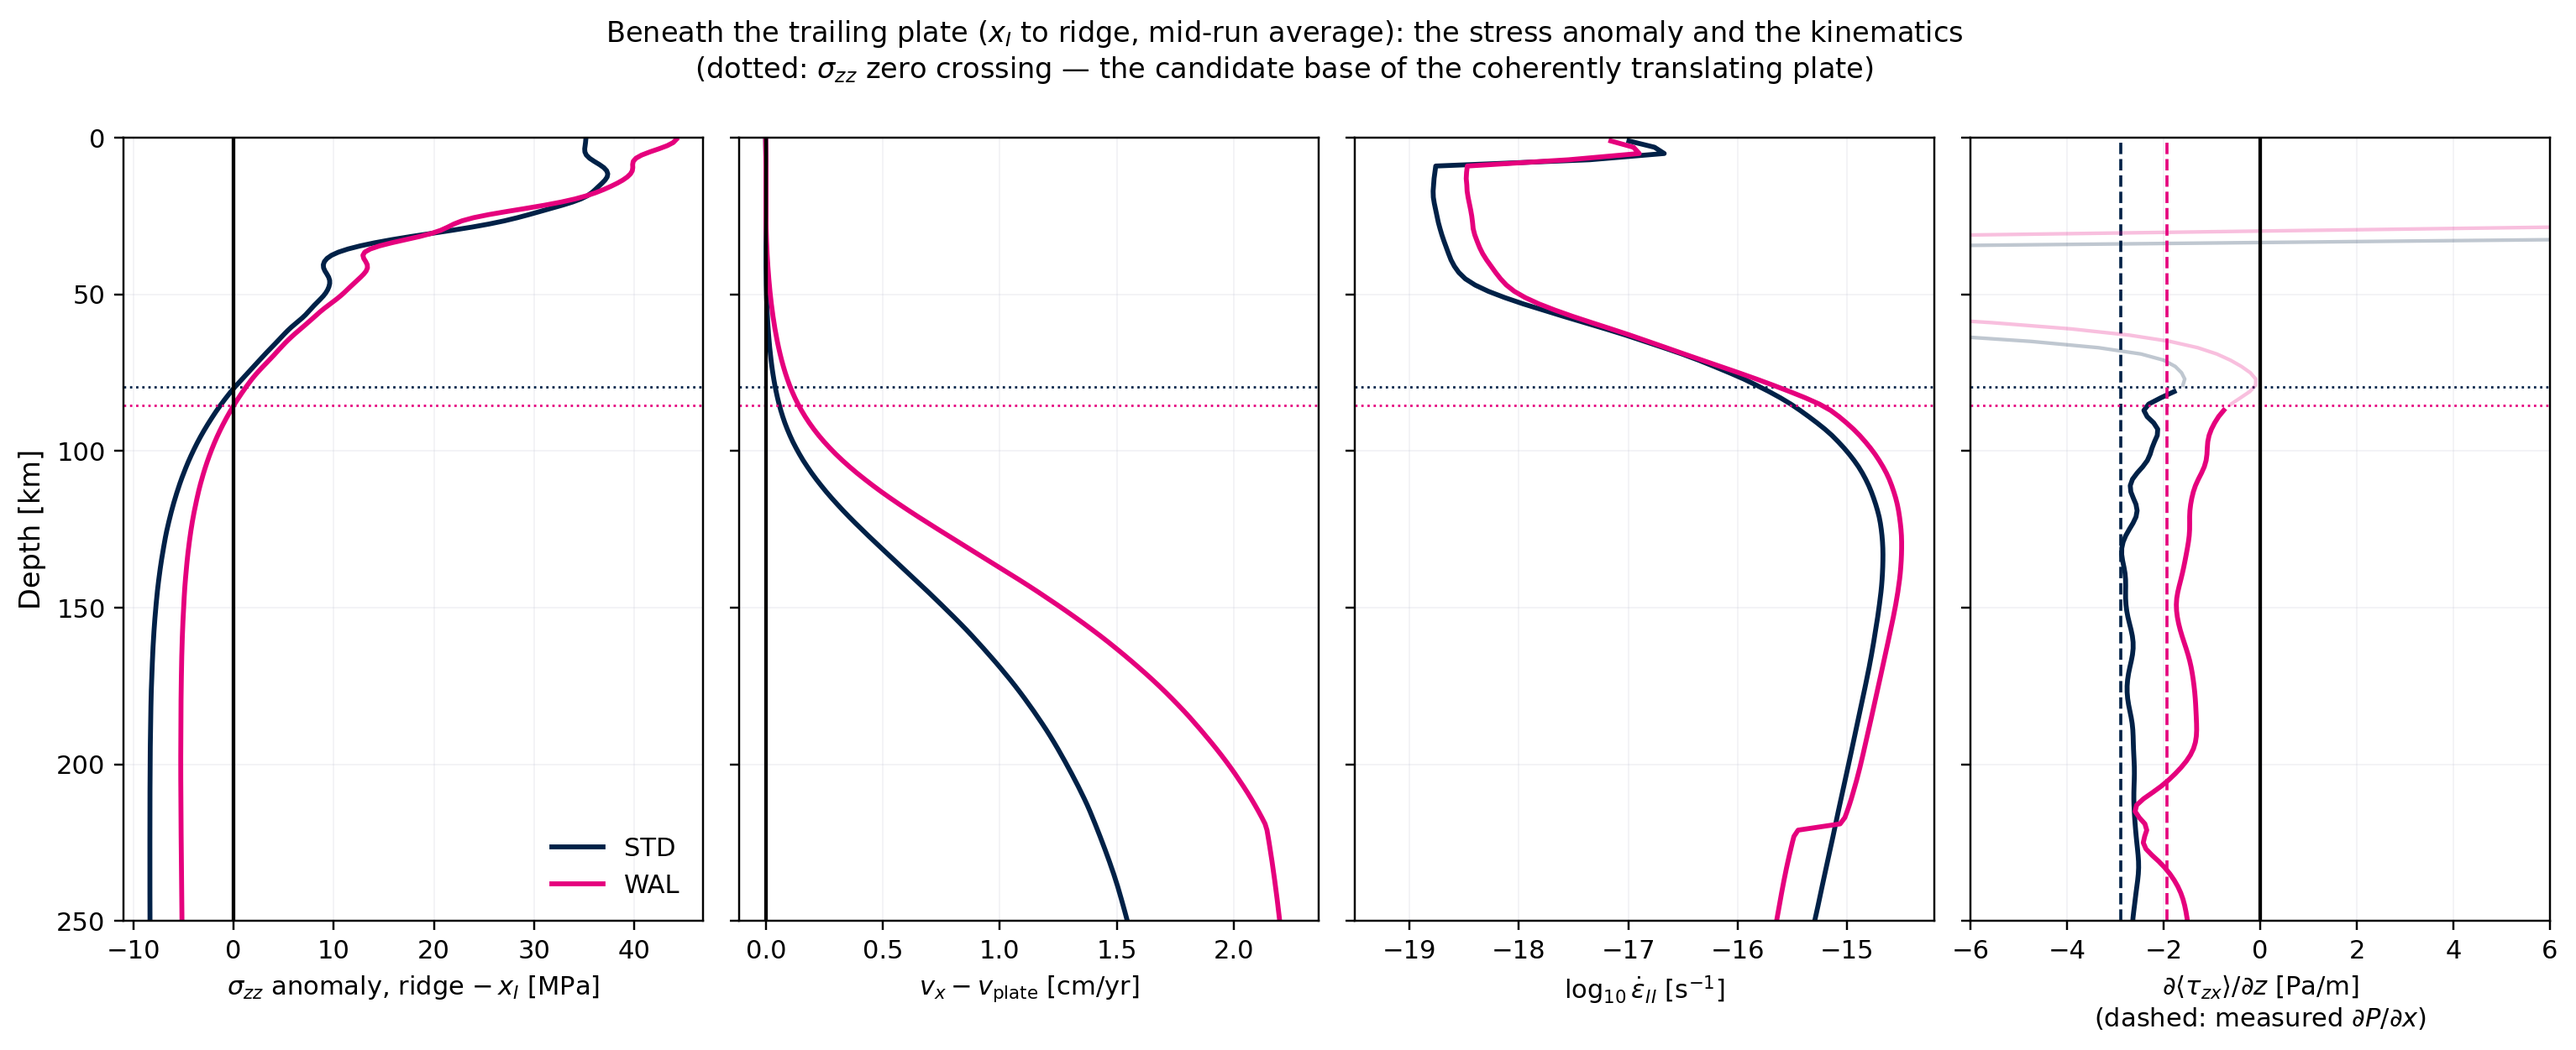
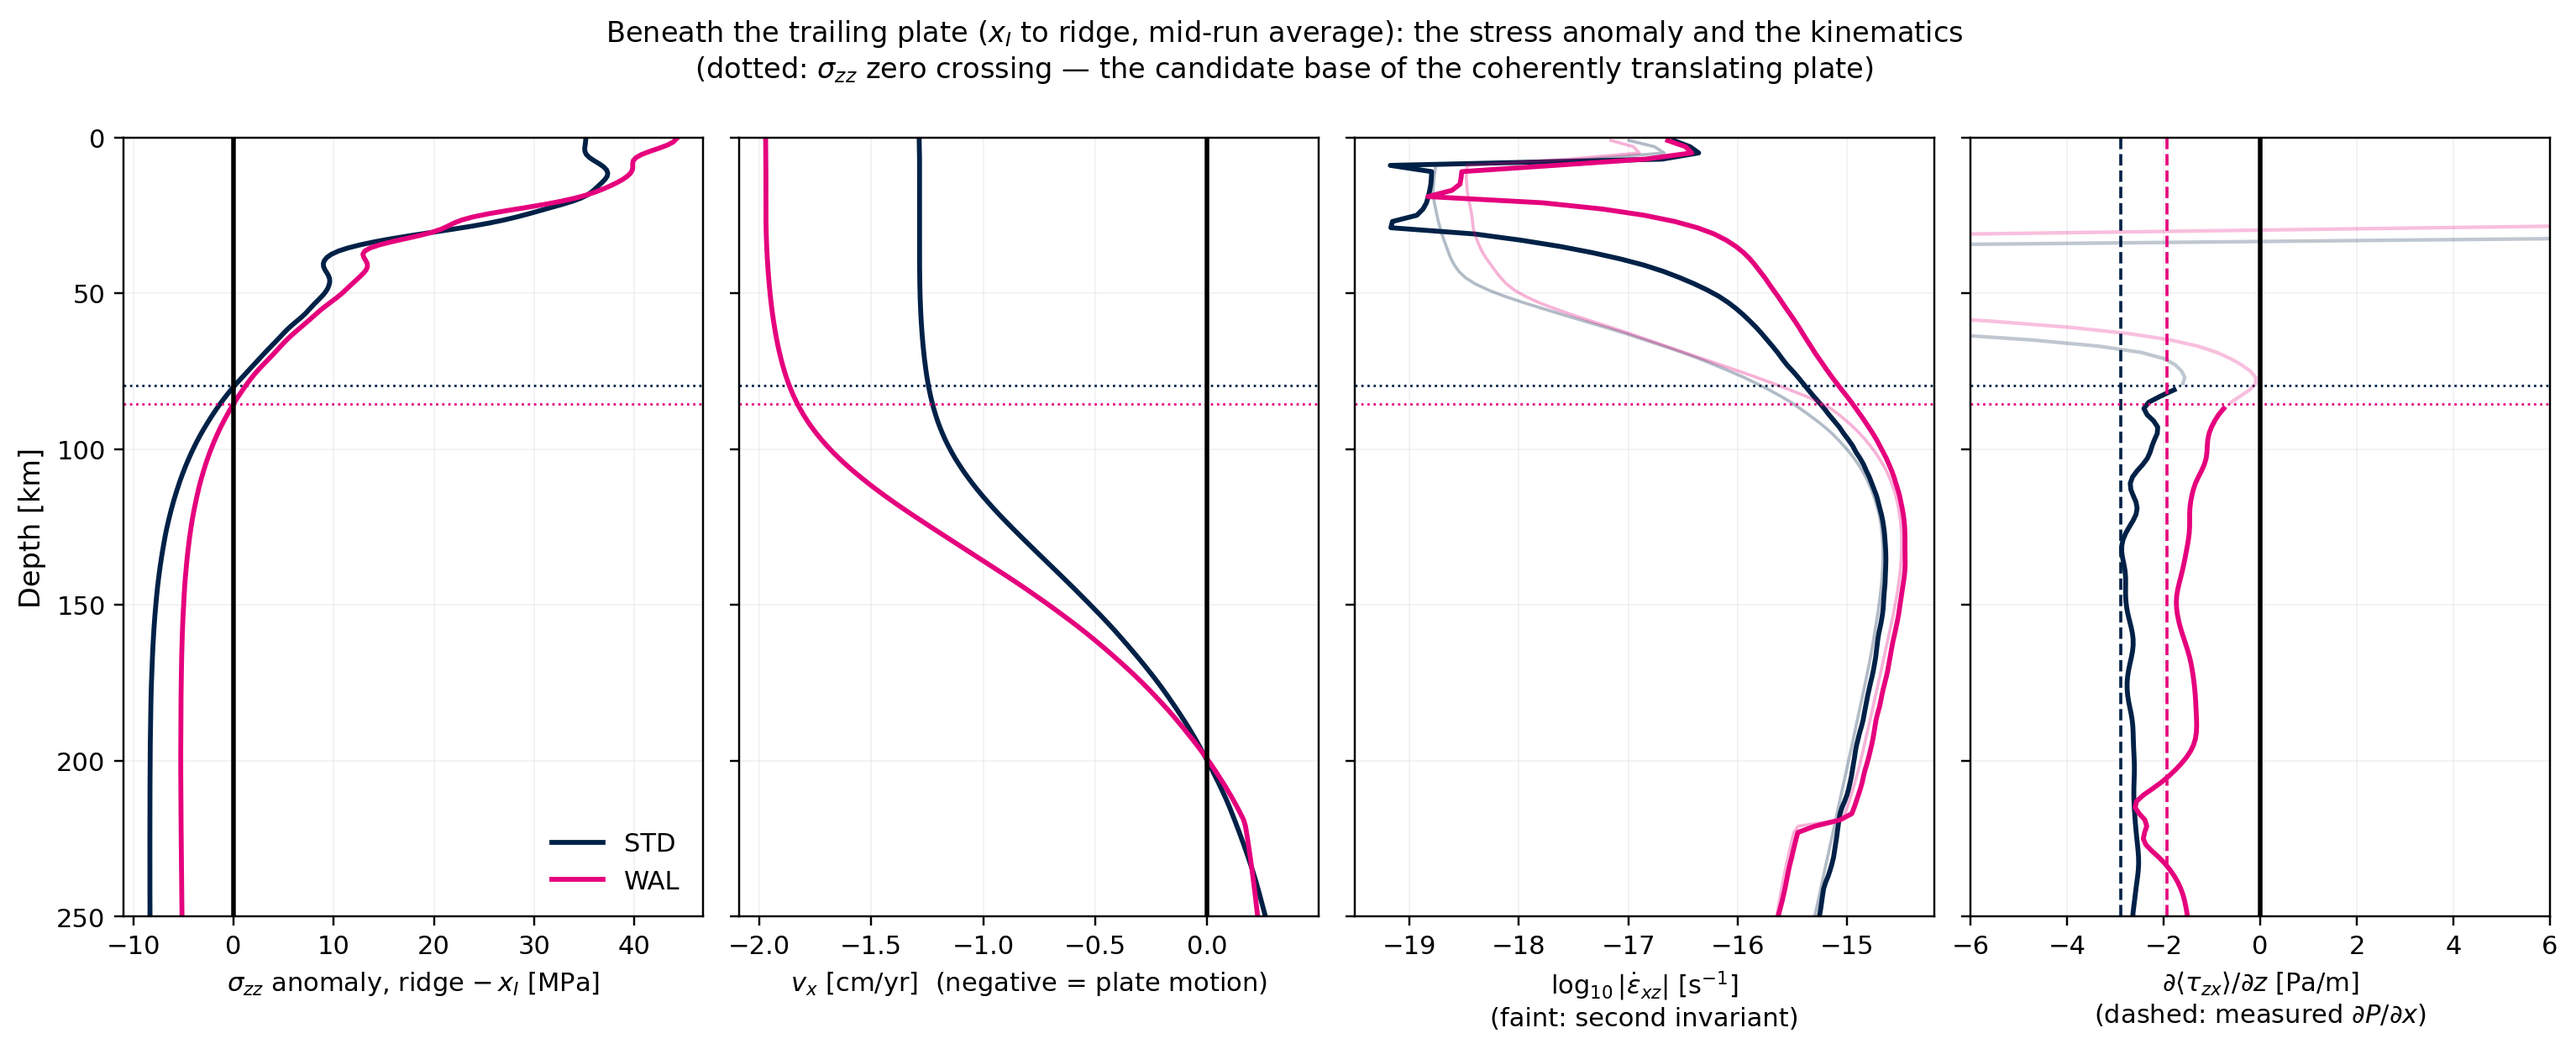
fig_lab_kinematics: absolute velocity, shear strain rate, honest invariant comparison
Dan, 2026-09-16: a plate-relative velocity hides where the mantle
reverses. Panel 2 now shows ABSOLUTE v_x about a bold zero line -- plate
translation at -1.28 (STD) / -1.97 (WAL) cm/yr, flow reversal at ~199 km
in both. Panel 3 now shows the SHEAR strain rate |eps_xz| = |dv_x/dz|/2
with the second invariant faint: they agree to 0.06/0.15 decade below
100 km (asthenosphere is simple shear) but diverge by up to 2.4 decades
inside the lithosphere, where the invariant is dominated by flexural
normal strains near x_I -- stated in the docstring rather than claimed
to be equivalent.

diff --git a/scripts/fig_lab_kinematics.py b/scripts/fig_lab_kinematics.py
@@ -9,11 +9,18 @@ Four panels, mid-run average (36–44 Myr), models overlaid in the brand
 colours per FIGURE_STYLE.md:
   1. sigma_zz anomaly (ridge − x_I), pressure register — the zero
      crossing (dotted) is the candidate base-of-lithosphere level
-  2. v_x − v_plate — the dynamical LAB in the sense of Garel et al.:
-     the base of the coherently translating ("constant-velocity") plate
-  3. log10 strain-rate invariant — plate interior vs asthenosphere; the
-     x-range excludes zero deliberately (the structure lives at
-     10^-19..10^-14, Dan 2026-09-16)
+  2. ABSOLUTE horizontal velocity v_x about a bold zero line, so both
+     transitions are visible: the coherently translating plate at the
+     top and the depth at which the mantle flow REVERSES (Dan,
+     2026-09-16 — a plate-relative velocity hides the reversal)
+  3. log10 of the SHEAR strain rate |eps_xz| = |dv_x/dz|/2 (Dan: the
+     shear component is the quantity of interest). The second invariant
+     is drawn faint for comparison: they agree to 0.06 (STD) / 0.15
+     (WAL) decade BELOW 100 km — the asthenosphere deforms in simple
+     shear — but diverge by up to 2.4 decades within the lithosphere,
+     where the invariant is dominated by flexural normal strains near
+     x_I rather than by plate-parallel shear. x-range excludes zero
+     deliberately (the structure lives at 10^-19..10^-14)
   4. d<tau_zx>/dz against the independently measured plate-wide
      dP/dx (dashed). Averaging horizontal momentum across the span gives
      d<tau_zx>/dz = −Δσ̄_xx/span, so in the channel these must agree —
@@ -34,10 +41,11 @@ column to the ridge, mid-run (36–44 Myr), for STD (navy) and WAL
 (magenta). (a) Vertical normal stress anomaly of the ridge column
 relative to the first isostatic column; its zero crossing (dotted) marks
 the change from a topographic pressure gradient that drives the plate to
-an adverse gradient that drives return flow. (b) Horizontal velocity
-relative to the plate: the crossing lies just above the base of the
-coherently translating plate. (c) Strain-rate invariant: at the crossing
-the material already deforms at rates approaching asthenospheric values.
+an adverse gradient that drives return flow. (b) Absolute horizontal velocity: the plate
+translates coherently above the crossing, shear occupies the transition
+below it, and the flow reverses only at about 200 km. (c) Shear strain rate (faint: second invariant, which they track below
+100 km): at the crossing the material already deforms at rates
+approaching asthenospheric values.
 (d) Vertical gradient of the plate-averaged shear stress; below the
 crossing it matches the independently measured plate-wide pressure
 gradient (dashed), confirming that the deep anomaly is the channel
@@ -83,12 +91,19 @@ def main():
         v_rel = vx - v_plate
         j = np.where(np.abs(v_rel) > LAB_FRAC * abs(v_plate))[0]
         z_lab = zk[j[0]] if len(j) else np.nan
+        sgn = np.where(np.sign(vx[:-1]) != np.sign(vx[1:]))[0]
+        z_rev = zk[sgn[0]] if len(sgn) else np.nan
         dtxz = np.gradient(txz, k['z'])                                 # Pa/m
         dPdx = c['dP'][m].mean() / span                                 # Pa/m, measured
 
         axes[0].plot(p_r, zp, color=col, lw=1.9, label=key)
-        axes[1].plot(v_rel, zk, color=col, lw=1.9, label=key)
-        axes[2].plot(eii, zk, color=col, lw=1.9)
+        axes[1].plot(vx, zk, color=col, lw=1.9, label=key)
+        # shear strain rate from the velocity gradient; invariant for comparison
+        vx_ms = vx * 1e-2 / 3.15576e7                                   # cm/yr -> m/s
+        exz = np.abs(np.gradient(vx_ms, k['z'])) / 2.0                  # 1/s
+        log_exz = np.log10(np.clip(exz, 1e-22, None))
+        axes[2].plot(eii, zk, color=col, lw=1.2, alpha=0.30)
+        axes[2].plot(log_exz, zk, color=col, lw=1.9)
         above = zk <= z_cross
         axes[3].plot(dtxz[above], zk[above], color=col, lw=1.4, alpha=0.25)
         axes[3].plot(dtxz[~above], zk[~above], color=col, lw=1.9)
@@ -99,12 +114,16 @@ def main():
         print(f'{key}: sigma_zz crossing {z_cross:.0f} km | dynamical LAB {z_lab:.0f} km | '
               f'v_plate {v_plate:+.2f} cm/yr | log10 eII: plate {eii[zk < 60].min():.1f}, '
               f'crossing {np.interp(z_cross, zk, eii):.1f}, asth {eii[(zk > 150) & (zk < 250)].mean():.1f}')
+        dev = np.abs(log_exz - eii)[(zk > 40) & (zk < 250)].max()
+        print(f'   flow reversal (v_x = 0) at {z_rev:.0f} km; shear-rate vs invariant '
+              f'agree to {dev:.2f} decade below 40 km')
         print(f'   d<tau_zx>/dz (120–220 km) {dtxz[ch].mean():+.2f} Pa/m vs measured dP/dx '
               f'{dPdx:+.2f} Pa/m  -> ratio {dtxz[ch].mean() / dPdx:.2f}')
 
     for ax, lab in zip(axes, [r'$\sigma_{zz}$ anomaly, ridge $-\,x_I$ [MPa]',
-                              r'$v_x - v_{\rm plate}$ [cm/yr]',
-                              r'$\log_{10}\dot\varepsilon_{II}$ [s$^{-1}$]',
+                              r'$v_x$ [cm/yr]  (negative = plate motion)',
+                              r'$\log_{10}|\dot\varepsilon_{xz}|$ [s$^{-1}$]'
+                              '\n(faint: second invariant)',
                               r'$\partial\langle\tau_{zx}\rangle/\partial z$ [Pa/m]'
                               '\n(dashed: measured $\\partial P/\\partial x$)']):
         ax.set_xlabel(lab, fontsize=10)
@@ -112,7 +131,7 @@ def main():
     # bold zero lines — but NOT on the strain-rate panel (its structure
     # lives far from zero; including the axis squashes it)
     for ax in (axes[0], axes[1], axes[3]):
-        ax.axvline(0, color='k', lw=1.4)
+        ax.axvline(0, color='k', lw=1.8)
     axes[2].set_xlim(-19.5, -14.2)
     axes[3].set_xlim(-6, 6)
     axes[0].set_ylabel('Depth [km]', fontsize=11)
